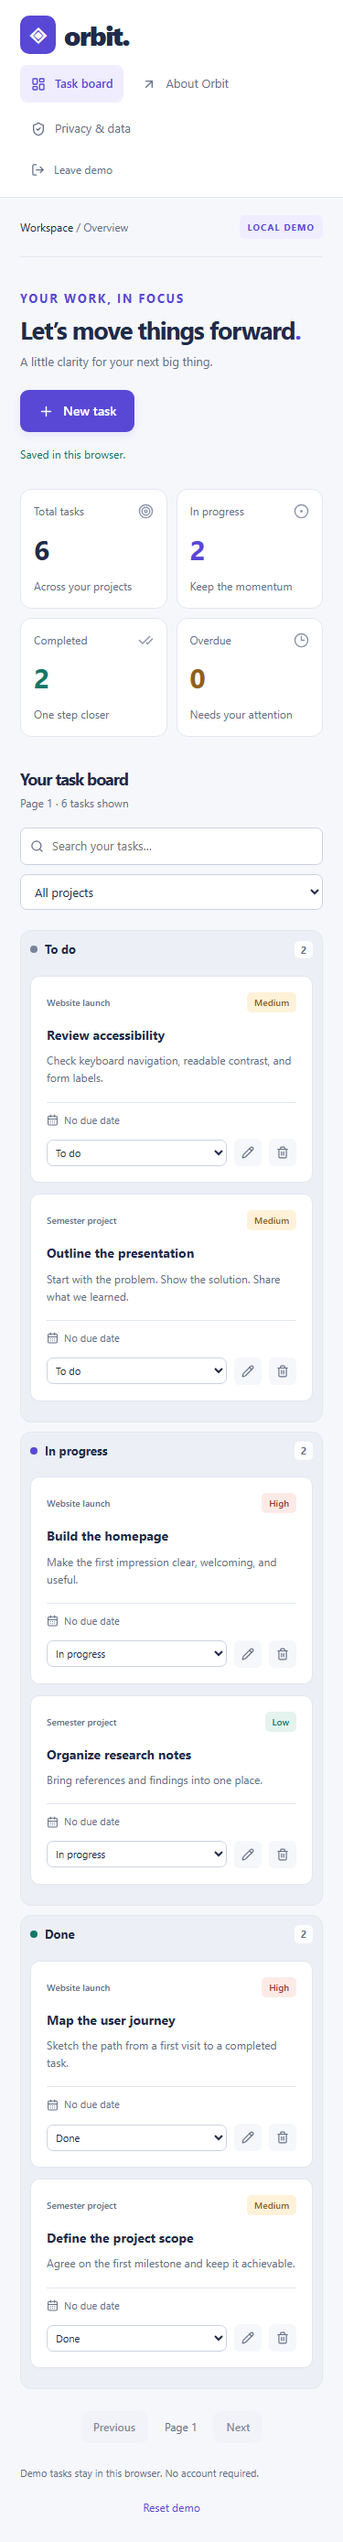
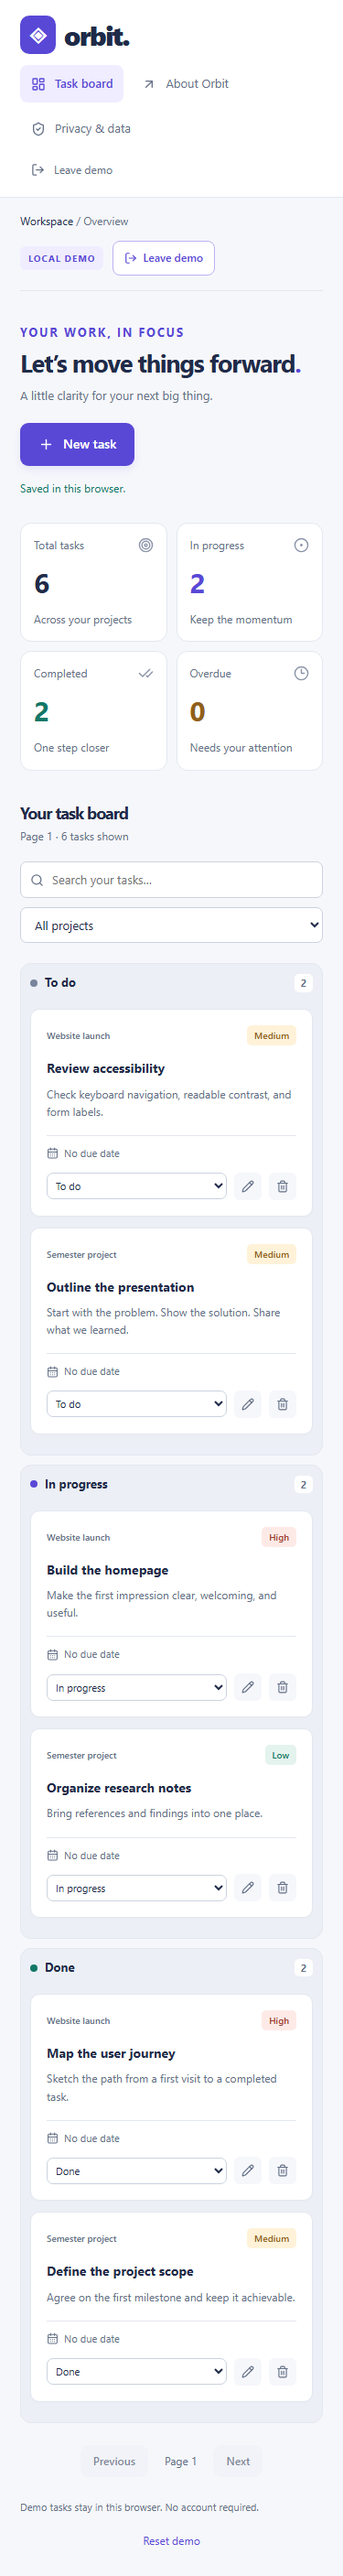
fix: make demo exit visible in the top bar

diff --git a/scripts/browser-test.js b/scripts/browser-test.js
@@ -1,3 +1,4 @@
+import { createServer as createPortProbe } from 'node:net';
 import assert from 'node:assert/strict';
 import { mkdir } from 'node:fs/promises';
 import { createServer } from 'vite';
@@ -14,30 +15,36 @@ try {
   if (!demoOnly) {
     mongo = await MongoMemoryServer.create();
     process.env.MONGODB_URI = mongo.getUri();
-    process.env.APP_ORIGIN = 'http://127.0.0.1:5173';
+
     apiServer = app.listen(0, '127.0.0.1');
     await new Promise((resolve) => apiServer.once('listening', resolve));
     port = apiServer.address().port;
   }
+  const probe = createPortProbe();
+  await new Promise((resolve) => probe.listen(0, '127.0.0.1', resolve));
+  const uiPort = probe.address().port;
+  await new Promise((resolve) => probe.close(resolve));
   vite = await createServer({
     configFile: 'vite.config.js',
     server: {
       host: '127.0.0.1',
-      port: 5173,
+      port: uiPort,
       strictPort: true,
       proxy: { '/api': 'http://127.0.0.1:' + port },
     },
   });
   await vite.listen();
+  const origin = 'http://127.0.0.1:' + vite.httpServer.address().port;
+  process.env.APP_ORIGIN = origin;
   browser = await chromium.launch({ headless: true });
   const page = await browser.newPage({ viewport: { width: 1440, height: 1000 } });
   page.setDefaultTimeout(15000);
   page.on('pageerror', (error) => errors.push(error.message));
   await mkdir('docs/screenshots', { recursive: true });
-  await page.goto('http://127.0.0.1:5173/');
+  await page.goto(origin + '/');
   await page.getByRole('heading', { name: /Big ideas/ }).waitFor();
   await page.screenshot({ path: 'docs/screenshots/landing-desktop.png', fullPage: true });
-  await page.goto('http://127.0.0.1:5173/app.html?demo=1');
+  await page.goto(origin + '/app.html?demo=1');
   await page.getByRole('heading', { name: 'Build the homepage', exact: true }).waitFor();
   await page.screenshot({
     path: 'docs/screenshots/workspace-desktop.png',
@@ -102,6 +109,20 @@ try {
     await page.evaluate(() => document.documentElement.scrollWidth <= innerWidth),
     true,
   );
+  assert.equal(
+    await page.getByRole('button', { name: 'Leave demo', exact: true }).count(),
+    2,
+  );
+  const topExit = page
+    .locator('.topbar')
+    .getByRole('button', { name: 'Leave demo', exact: true });
+  await topExit.scrollIntoViewIfNeeded();
+  const exitBounds = await topExit.boundingBox();
+  assert.ok(exitBounds && exitBounds.y >= 0 && exitBounds.y + exitBounds.height <= 812);
+  await topExit.click();
+  await page.getByRole('heading', { name: 'Welcome back.', exact: true }).waitFor();
+  await page.getByRole('button', { name: 'Open the local demo', exact: true }).click();
+  await page.getByRole('heading', { name: 'Build the homepage', exact: true }).waitFor();
   await page.setViewportSize({ width: 1440, height: 1000 });
   await page.getByRole('button', { name: 'New task', exact: true }).click();
   await page.keyboard.press('Escape');
@@ -111,7 +132,10 @@ try {
   );
 
   if (!demoOnly) {
-    await page.getByRole('button', { name: 'Leave demo', exact: true }).click();
+    await page
+      .locator('.sidebar')
+      .getByRole('button', { name: 'Leave demo', exact: true })
+      .click();
     await page
       .getByRole('button', { name: 'New here? Create an account', exact: true })
       .click();

diff --git a/client/App.jsx b/client/App.jsx
@@ -113,9 +113,21 @@ function Workspace({ mode, user, onExit, onExpired }) {
           <span>
             Workspace <span className="muted">/ Overview</span>
           </span>
-          <span className="pill">
-            {mode === 'demo' ? 'LOCAL DEMO' : 'PERSONAL WORKSPACE'}
-          </span>
+          <div className="topbar-actions">
+            <span className="pill">
+              {mode === 'demo' ? 'LOCAL DEMO' : 'PERSONAL WORKSPACE'}
+            </span>
+            {mode === 'demo' && (
+              <button
+                type="button"
+                className="demo-exit"
+                disabled={signingOut || workspace.busy}
+                onClick={exit}
+              >
+                <LogOut size={14} aria-hidden="true" /> Leave demo
+              </button>
+            )}
+          </div>
         </header>
         <section className="page-heading">
           <div>

diff --git a/client/workspace.css b/client/workspace.css
@@ -258,3 +258,33 @@ textarea:disabled {
     animation: none;
   }
 }
+
+.topbar {
+  height: auto;
+  min-height: 80px;
+  flex-wrap: wrap;
+  gap: 12px;
+  padding: 16px 0;
+}
+.topbar-actions {
+  display: flex;
+  align-items: center;
+  gap: 10px;
+}
+.demo-exit {
+  display: inline-flex;
+  align-items: center;
+  gap: 6px;
+  padding: 8px 12px;
+  border: 1px solid #bcb1f3;
+  border-radius: 8px;
+  background: white;
+  color: var(--purple);
+  font-size: 12px;
+  font-weight: 600;
+  white-space: nowrap;
+}
+.demo-exit:hover:not(:disabled) {
+  background: #efedff;
+  border-color: var(--purple);
+}

diff --git a/docs/TESTING.md b/docs/TESTING.md
@@ -47,3 +47,5 @@ Temporary databases and downloaded tools stay in the ignored project cache. Inte
 - Vercel /api routing, Secure cookies, exact APP_ORIGIN, and security headers.
 - Real 404 responses and public indexing directives.
 - Sitemap, canonical host, structured data, Search Console, and measured performance.
+
+- Demo exit appears in both the top bar and sidebar. Check both return to sign-in without deleting demo tasks; the top button must be visible on mobile without scrolling.
